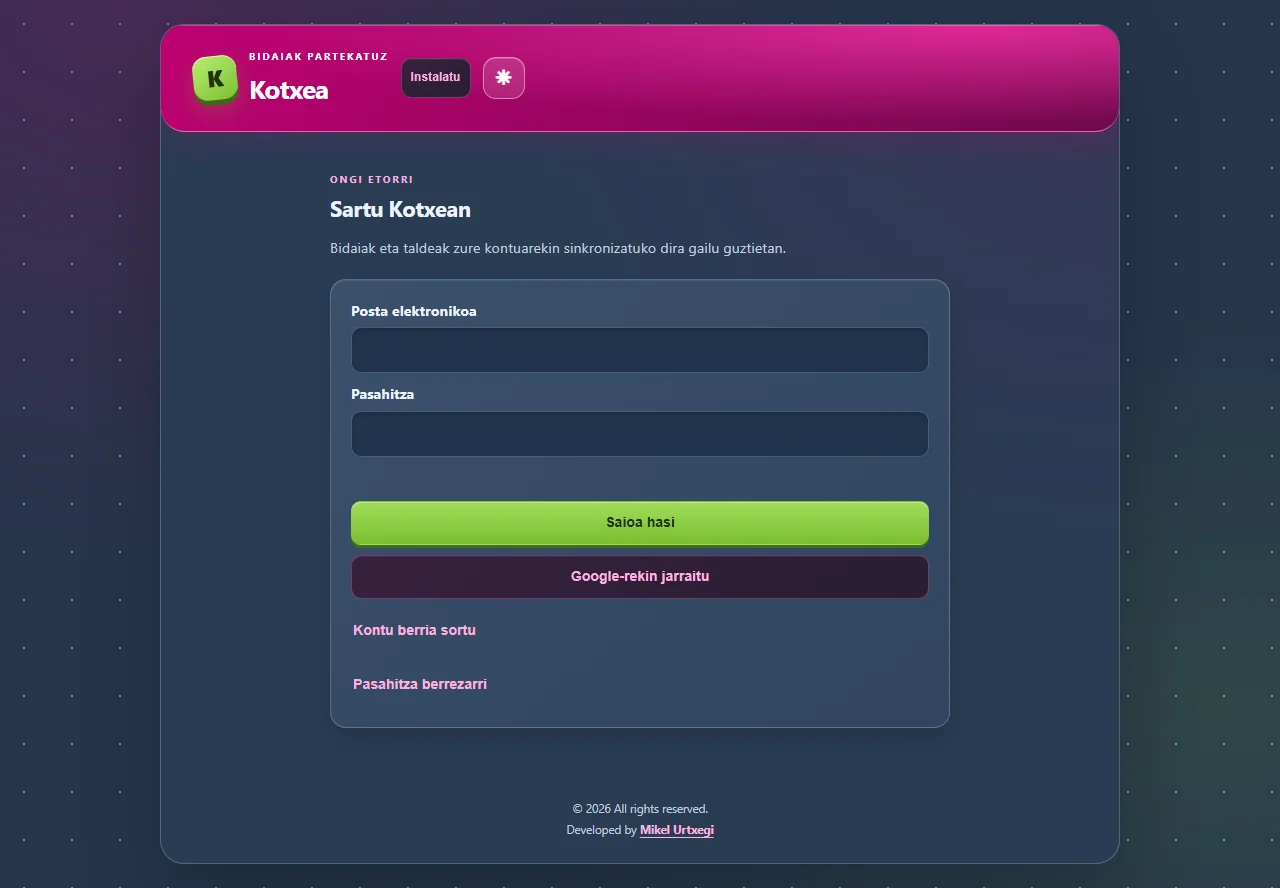
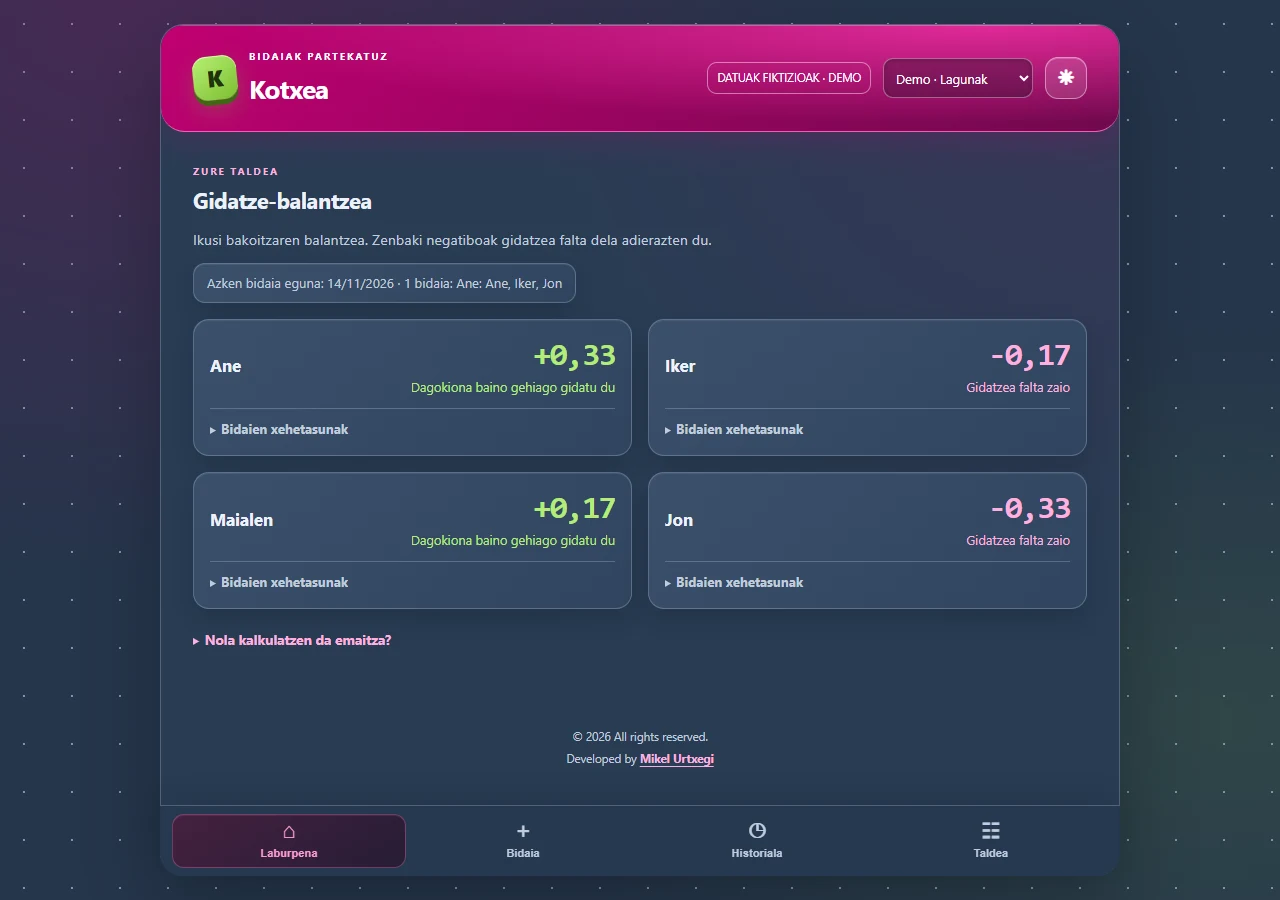
feat: mostrar balance de Kotxea con datos ficticios

diff --git a/src/App.tsx b/src/App.tsx
@@ -819,17 +819,17 @@ function App() {
               <div className="screenshot-scene kotxea-scene">
                 <img
                   src={`${import.meta.env.BASE_URL}images/kotxea-app.webp`}
-                  alt="Captura real de la pantalla de acceso de la aplicación web Kotxea"
+                  alt="Captura de demostración de Kotxea con cuatro participantes, sus balances de conducción y un viaje reciente; todos los datos son ficticios"
                   width="1280"
-                  height="864"
+                  height="900"
                   loading="lazy"
                   className="kotxea-screenshot"
                 />
               </div>
               <div className="media-caption kotxea-caption">
-                <span>CAPTURA REAL · APP PÚBLICA</span>
+                <span>DEMO · DATOS FICTICIOS</span>
                 <span>
-                  Firebase · PWA <Code2 size={13} />
+                  Balance de turnos <Code2 size={13} />
                 </span>
               </div>
             </div>

diff --git a/README.md b/README.md
@@ -43,7 +43,7 @@ Para añadir un proyecto secundario, incorpora una entrada a `projects` en `src/
 
 `public/images/balance-laboral.webp` es una captura real de la vista pública del calendario en `https://balancelaboral.es`, tomada el 24 de octubre de 2026 sin iniciar sesión ni añadir datos personales. Se rechazó la analítica opcional. `public/images/carpinteria-alex-val.webp` es una captura de la portada pública de `https://alejandrovalcarpinteria.es/`, tomada el 13 de noviembre de 2026. Si se sustituye cualquiera, actualizar dimensiones y descripción `alt` en `App.tsx`. Las tarjetas de proyectos secundarios usan gráficos SVG/CSS identificados como composiciones conceptuales, sin presentarlos como pantallas reales.
 
-`public/images/kotxea-app.webp` es una captura real de la pantalla pública de acceso de `https://kotxea-urtxe.web.app`, tomada el 15 de noviembre de 2026 sin iniciar sesión ni mostrar datos personales. Balance Laboral, Carpintería Alex Val y Kotxea se presentan como proyectos destacados con capturas reales.
+`public/images/kotxea-app.webp` es una captura de demostración de la pantalla de balance de Kotxea. Se tomó desde una copia local de la aplicación con nombres y viajes inventados, sin iniciar sesión ni consultar datos de producción. Balance Laboral y Carpintería Alex Val se presentan con capturas de sus sitios públicos; Kotxea muestra una captura de demostración con datos ficticios.
 
 `public/images/social-card.png` es la imagen social original de 1200 × 630 px. Puede sustituirse manteniendo su tamaño y ruta, o actualizando la metadata en `vite.config.ts`. Tipografías Manrope, DM Sans e IBM Plex Mono autoalojadas a través de Fontsource; no se solicitan a Google Fonts.
 
